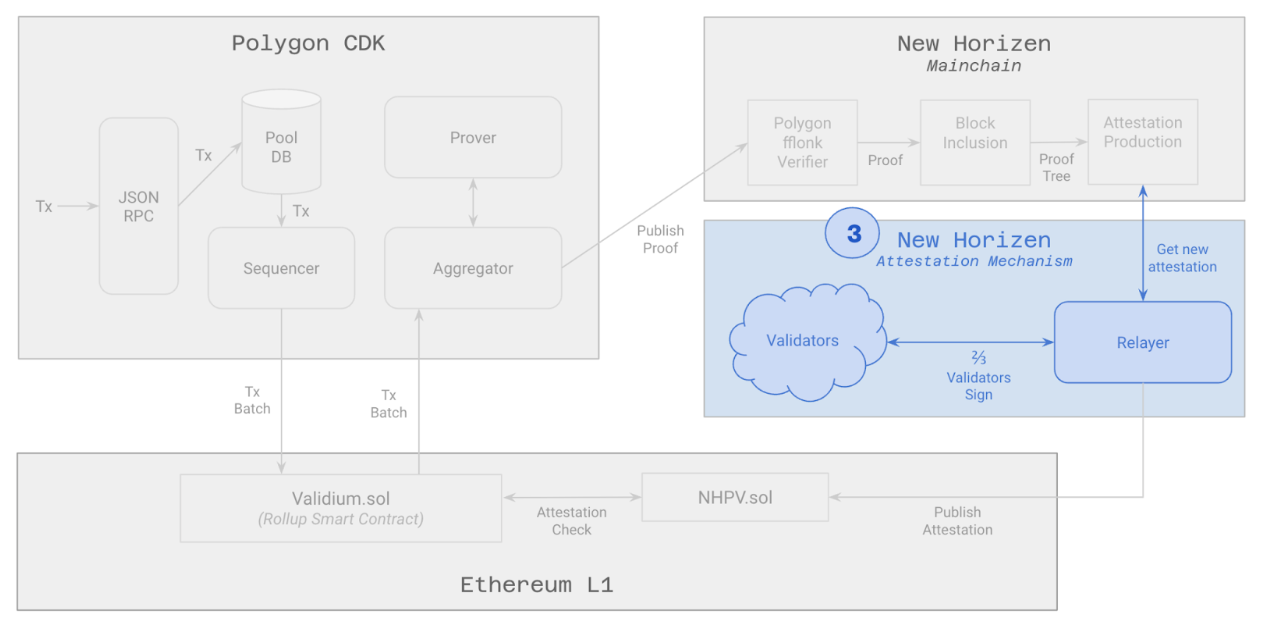
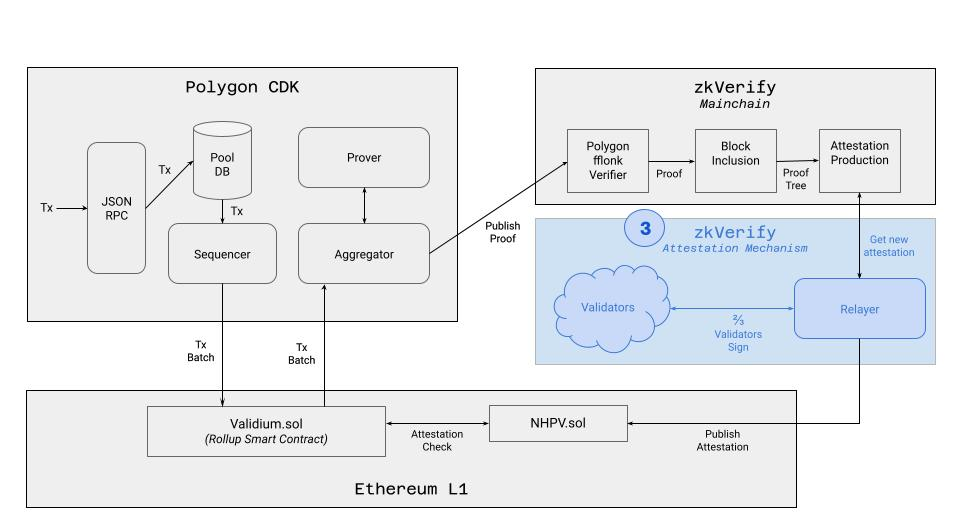
Mo/zk 399 (#9)
* Rename NH to zkVerify

* Rename NH to zkVerify pt2

* core_components ticker

* Test new image resolution

* Test new image resolution pt2

* Updated diagrams

diff --git a/docs/01-introduction_what_is_nh/02-core_components.md b/docs/01-introduction_what_is_nh/02-core_components.md
@@ -1,11 +1,11 @@
 # zkVerify Proof Verification Chain
 
-![alt_text](./img/nharch.png)
+![alt_text](./img/zkverifyarch.png)
 
 zkVerify is made of five core components that are defined below.
 
 ## Mainchain
-This is an L1 Proof of Stake blockchain implemented as a Substrate Relay Chain. Its main responsibilities, besides exchanging $ZEN, the primary token of the chain, are to receive, verify, and store validity proofs.  It houses the verifier modules, such as the Fflonk native verifier.  In some other documents, this component may also be referred to as the Proof Verification Chain.
+This is an L1 Proof of Stake blockchain implemented as a Substrate Relay Chain. Its main responsibilities, besides exchanging $ACME, the primary token of the chain, are to receive, verify, and store validity proofs.  It houses the verifier modules, such as the Fflonk native verifier.  In some other documents, this component may also be referred to as the Proof Verification Chain.
 
 ## Proof Submission Interface
 This is the interface (i.e. transactions and RPC calls) used by clients (zk rollups and zkapps) to submit proofs to zkVerify for verification.
@@ -14,9 +14,9 @@ This is the interface (i.e. transactions and RPC calls) used by clients (zk roll
 The protocol that publishes the Merkle root of the proof tree onto the zkVerify smart contract on Ethereum once a given publication policy is met.
 
 ## zkVerify Smart Contract
-The core responsibility of this smart contract (NewHorizenProofVerifier.sol) is to store new attestations, validate them, and provide capabilities for NH users to verify that their proof is part of the attestation.
+The core responsibility of this smart contract (ZkVerify.sol) is to store new attestations, validate them, and provide capabilities for zkVerify users to verify that their proof is part of the attestation.
 
 ## Proof Submitters
-Users interested in verifying proofs on NH because:
+Users interested in verifying proofs on zkVerify because:
  - It is cheaper than doing it on a given settlement layer (e.g. Ethereum).
  - For notarization/timestamping purposes.

diff --git a/docs/05-smart_contract/02-smart_contract_functionality.md b/docs/05-smart_contract/02-smart_contract_functionality.md
@@ -61,6 +61,6 @@ function verifyProofAttestation(
 - Computes `claimedAttestation = apply(_leaf, _merklePath, _index)`.
 - Returns `claimedAttestation ==  proofsAttestation[_attestationId]`.
 
-The verification of the Merkle path is carried out by employing the [Merkle.sol](https://github.com/HorizenLabs/CDK_contracts/blob/bp/nh_wip/contracts/lib/Merkle.sol) library contract provided by **EigenDA**. We preferred this choice over OpenZeppelin, as it is assuming that both leaves and internal nodes are ordered lexicographically, which is something not necessarily true for us.  Moreover, **EigenDA** implementation is more optimized.
+The verification of the Merkle path is carried out by employing the [Merkle.sol](https://github.com/HorizenLabs/cdk-validium-contracts/blob/0.1.1/contracts/lib/Merkle.sol) library contract provided by **EigenDA**. We preferred this choice over OpenZeppelin, as it is assuming that both leaves and internal nodes are ordered lexicographically, which is something not necessarily true for us.  Moreover, **EigenDA** implementation is more optimized.
 
 However, such implementation needs to be modified to accommodate the fact that Substrate uses a slightly optimized version of a Binary Merkle tree, while the contract assumes the Merkle tree to be always complete and balanced. Please refer to the Substrate [source code](https://github.com/paritytech/polkadot-sdk/blob/b0741d4f78ebc424c7544e1d2d5db7968132e577/substrate/utils/binary-merkle-tree/src/lib.rs#L237) for more info.

diff --git a/docs/02-mainchain/01-mainchain_specification.md b/docs/02-mainchain/01-mainchain_specification.md
@@ -4,4 +4,4 @@ title: zkVerify Mainchain Specification
 
 # zkVerify Mainchain Overview
 
-![alt_text](./img/nhmainchain.png)
+![alt_text](./img/zkverifychain.png)
